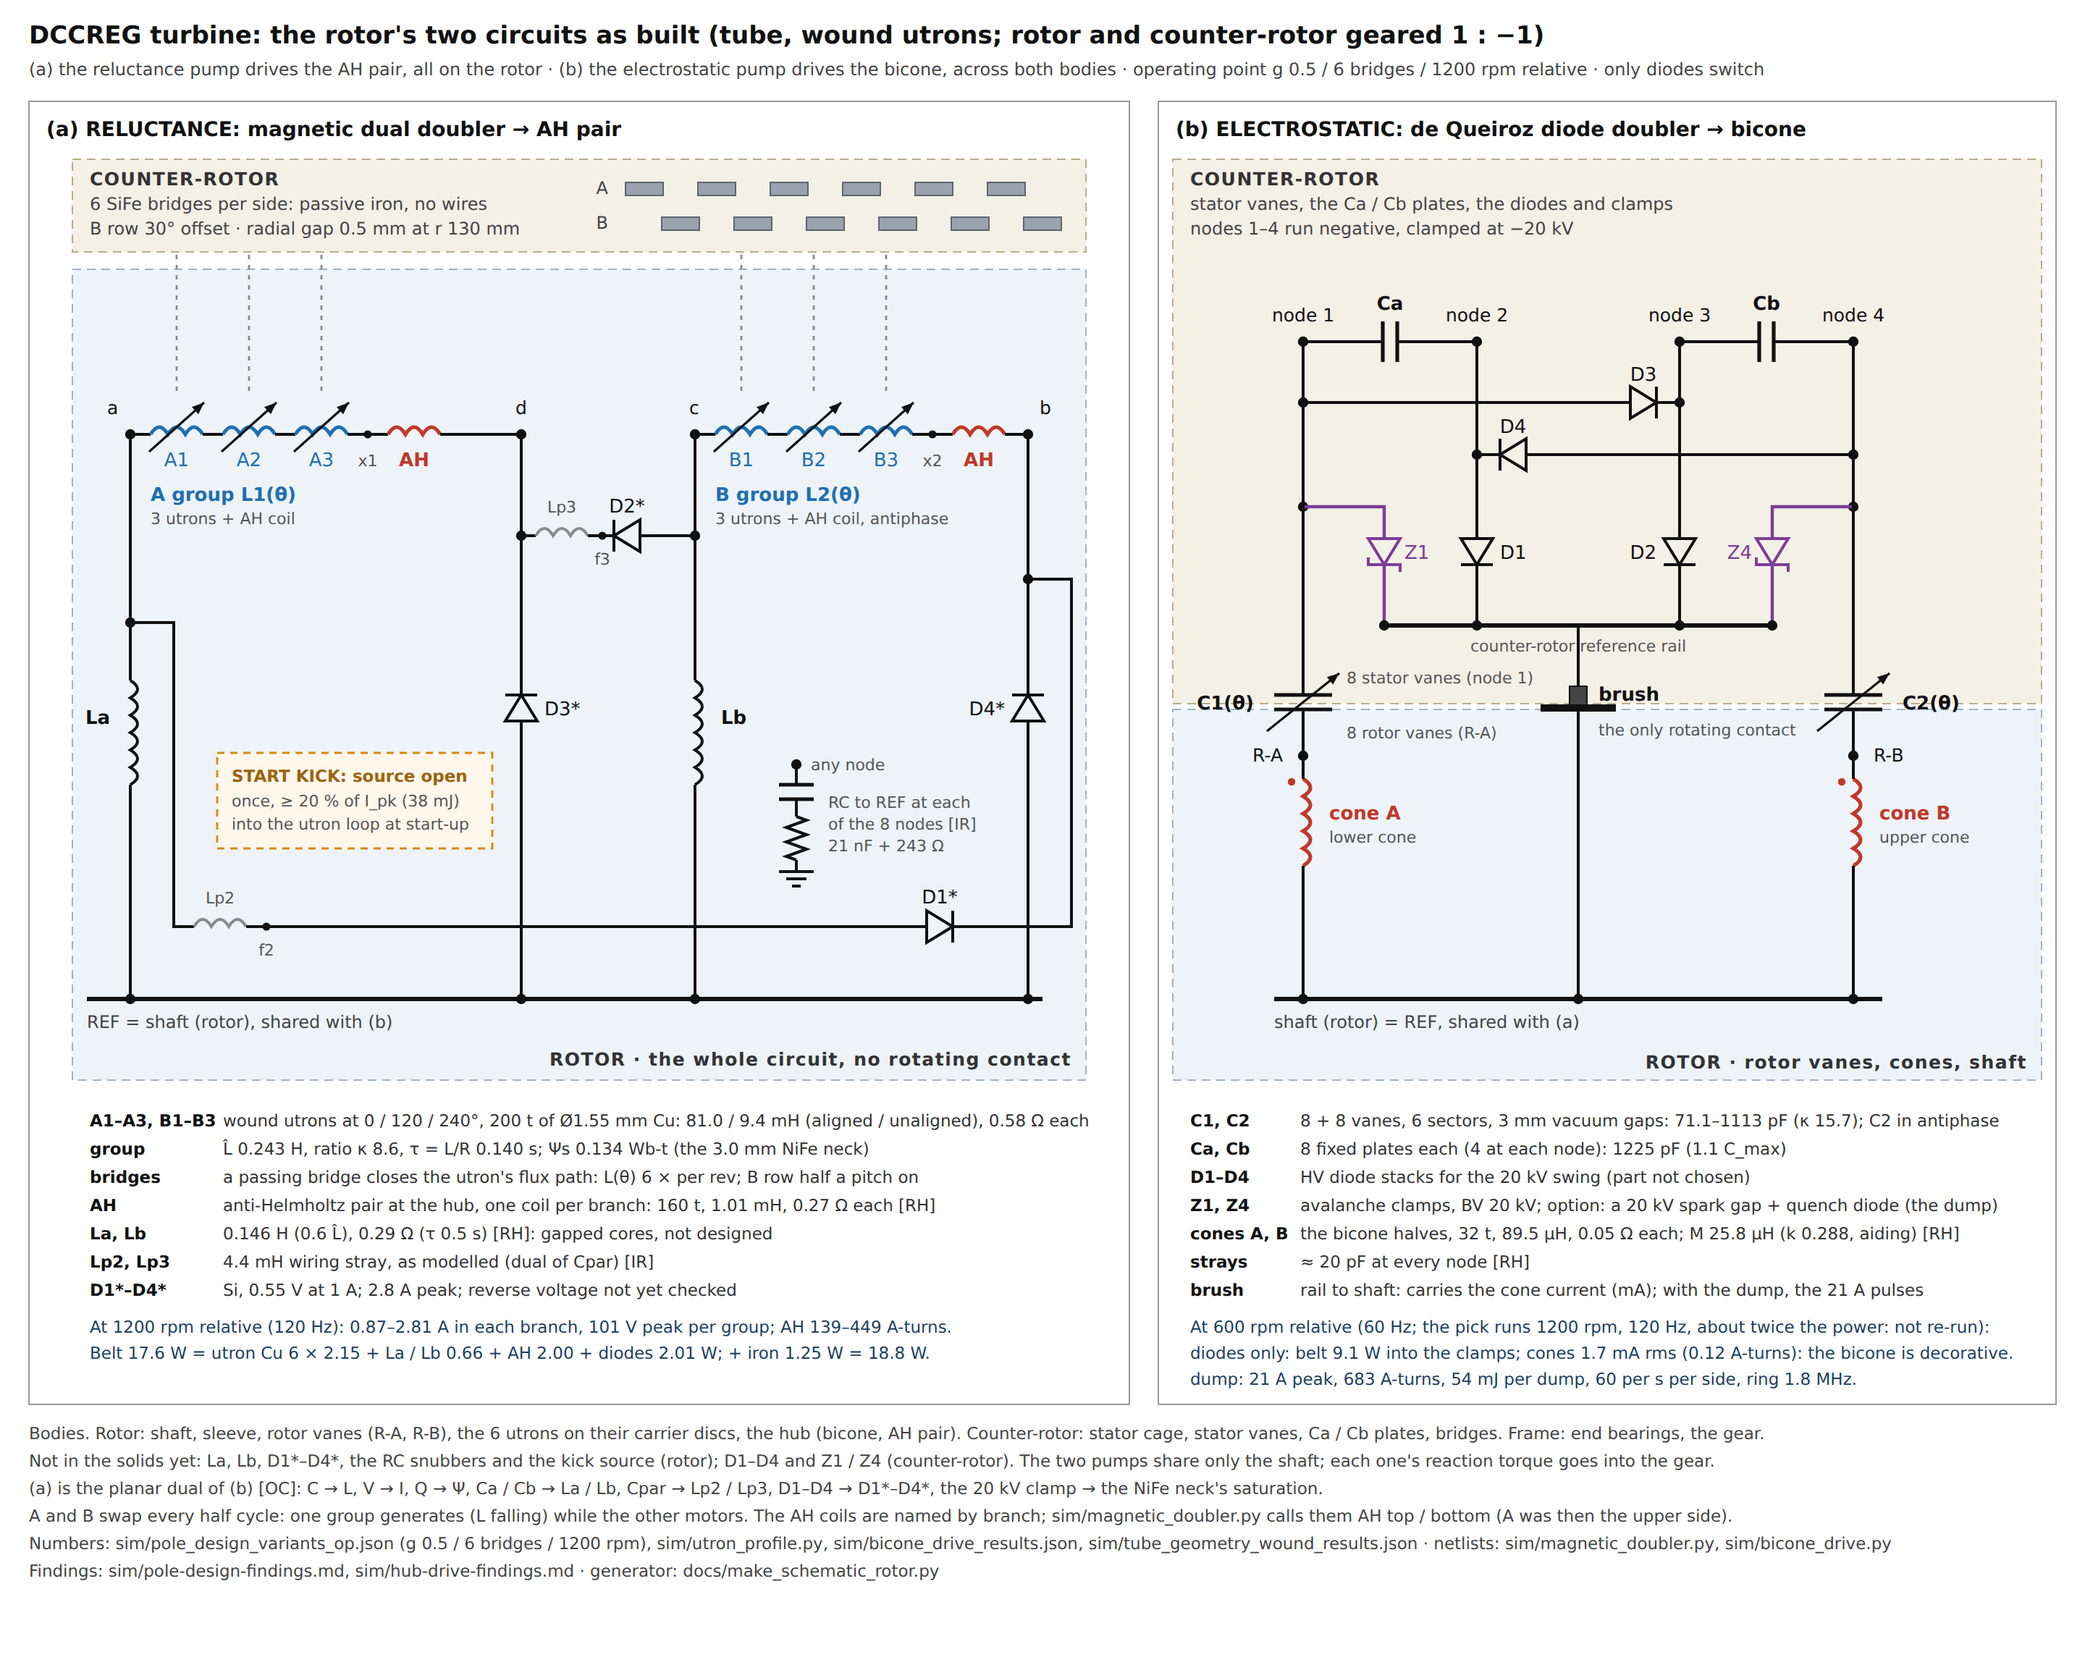
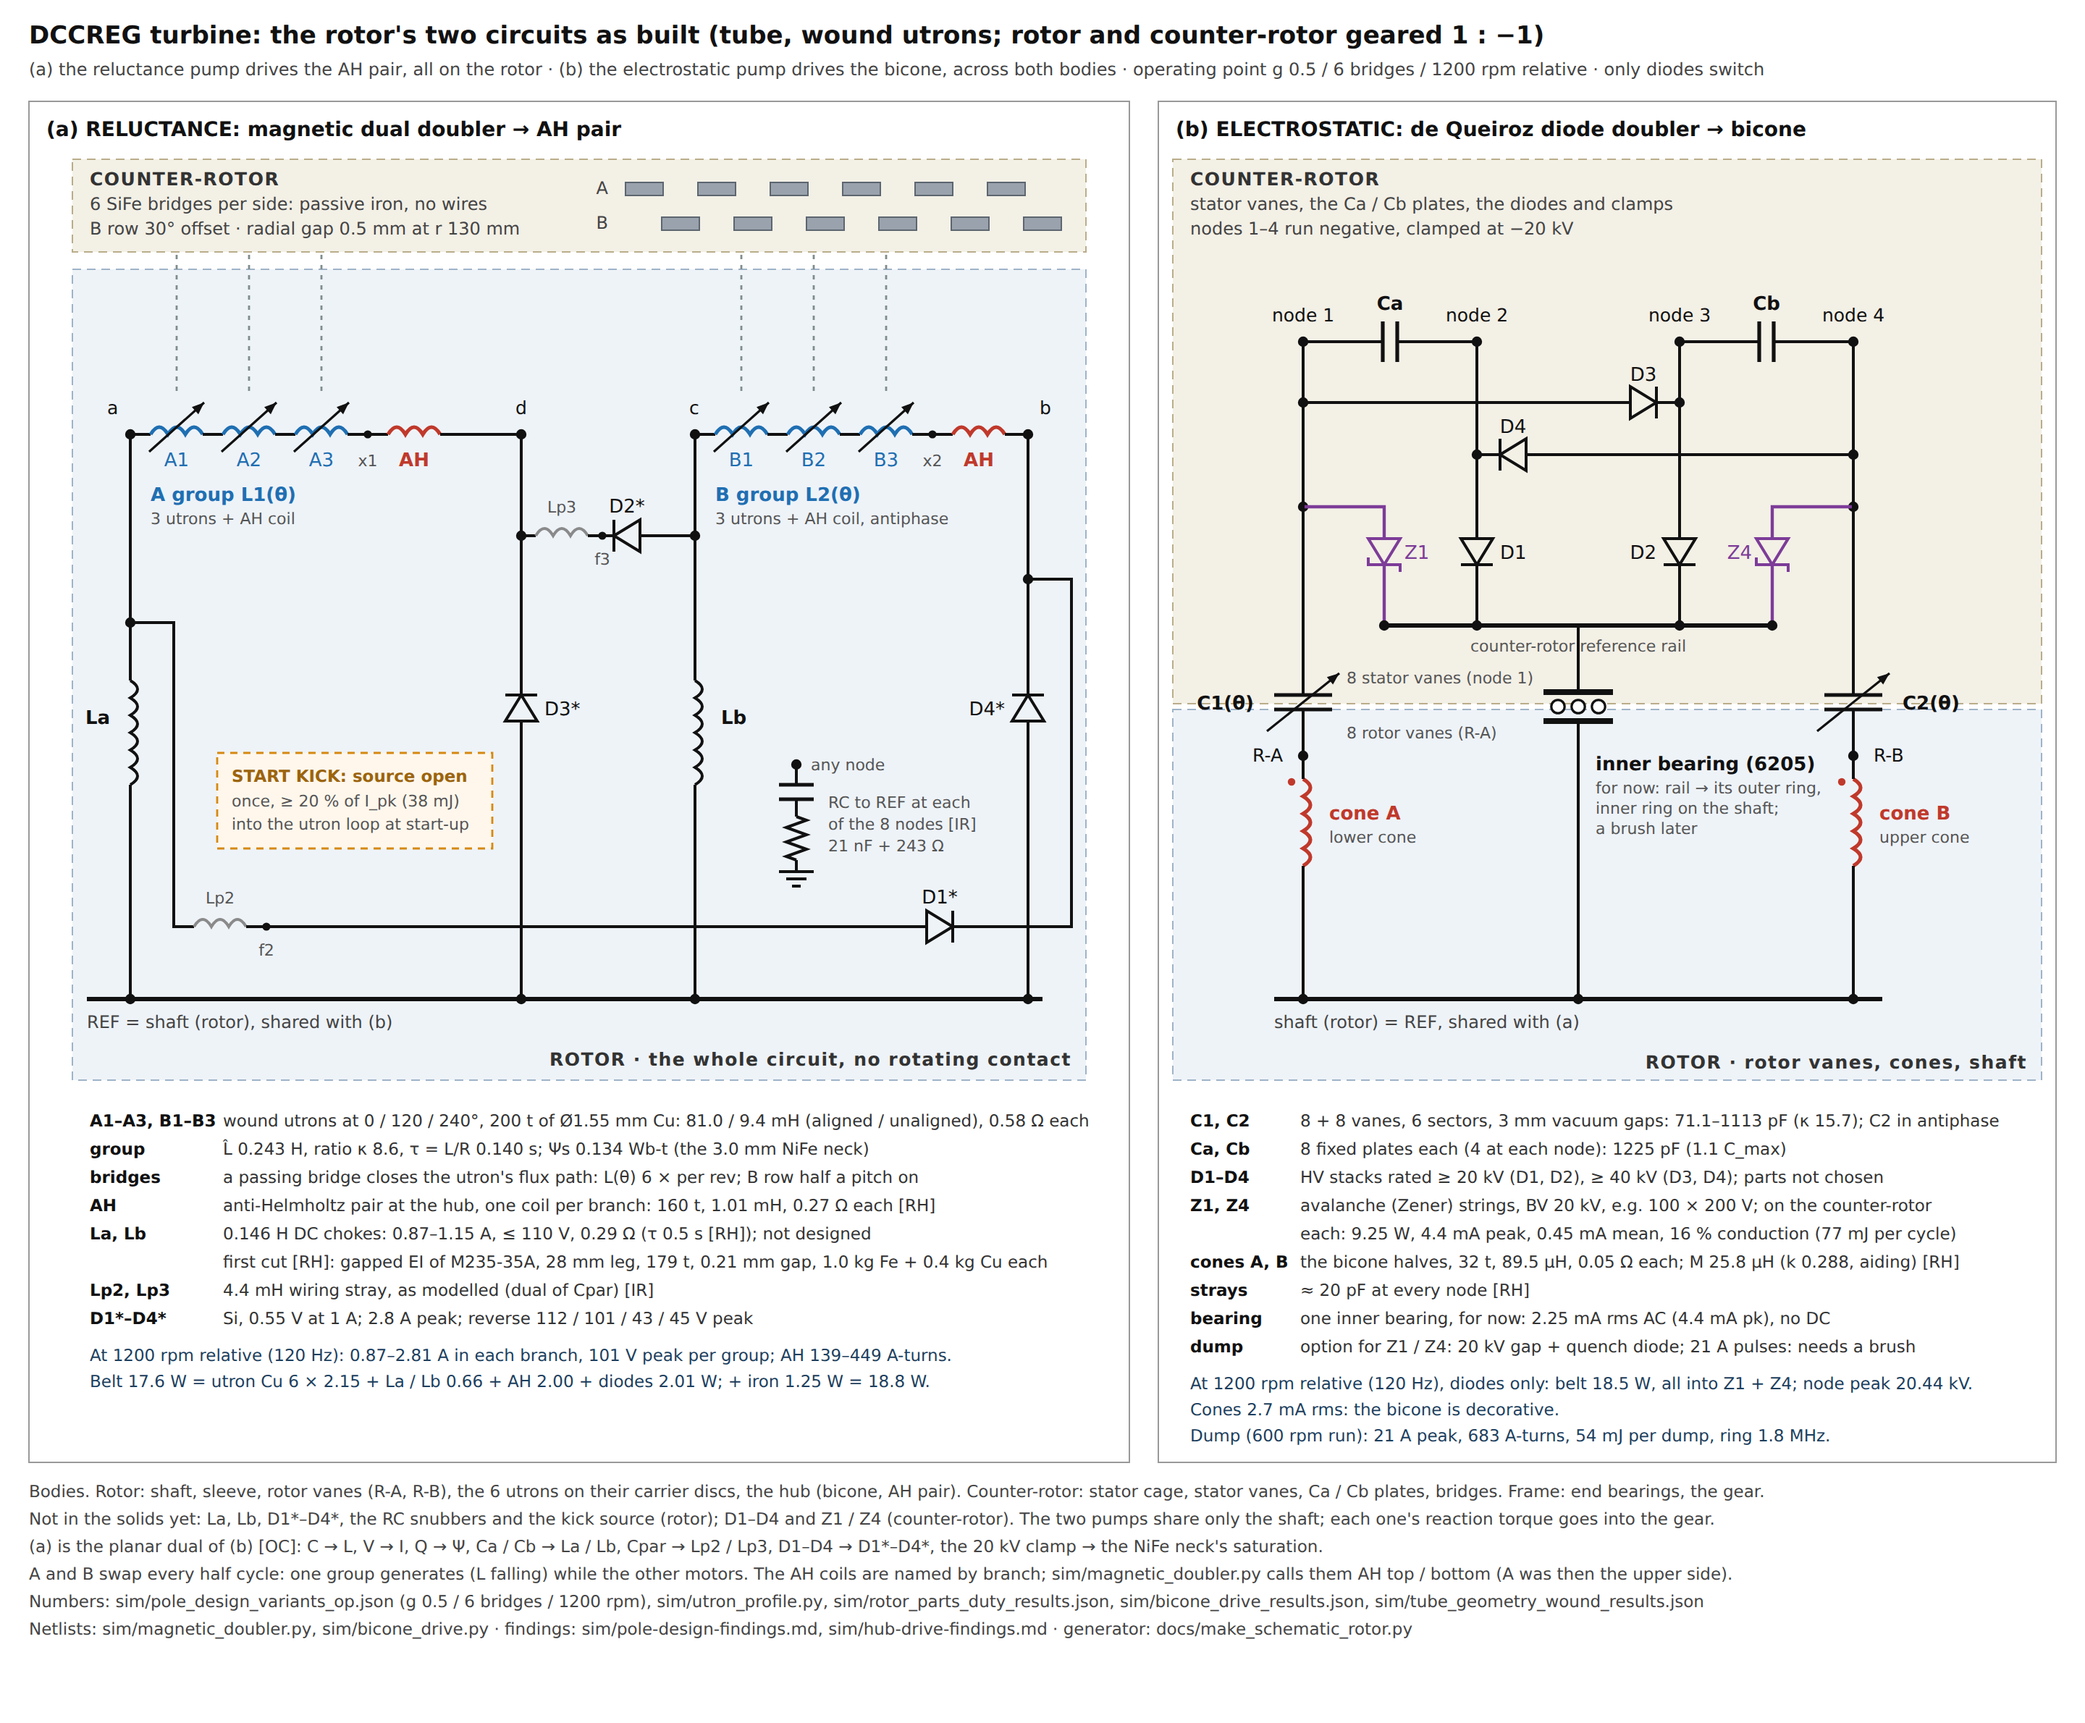
docs(schematic): reference link through an inner bearing for now; part duties on the sheet
- the counter-rotor rail reaches the shaft through one inner bearing's
  outer ring (the G10 spiders insulate the others); the dump option's
  21 A pulses need a brush
- La / Lb, D1*-D4*, Z1 / Z4 and the link current from
  sim/rotor_parts_duty_results.json; the electrostatic numbers at 1200 rpm

Claude-Session: https://claude.ai/code/session_019kWq1ZtzZgffamNAmjzqBU

diff --git a/docs/make_schematic_rotor.py b/docs/make_schematic_rotor.py
@@ -5,8 +5,9 @@
     counter-rotor's passive bridges make L(theta); no wire crosses between the bodies.
 (b) ELECTROSTATIC: the de Queiroz diode doubler (sim/bicone_drive.py netlist) -- C1 / C2 between the counter-rotor's
     stator vanes and the rotor vanes, Ca / Cb, D1-D4, the 20 kV clamps, the bicone cones from the rotor vanes to the
-    shaft; one brush from the counter-rotor's reference rail to the shaft.
+    shaft; the counter-rotor's reference rail joined to the shaft through one inner bearing for now (a brush later).
 Values: sim/pole_design_variants_op.json (the pick), sim/utron_profile.py, sim/bicone_drive.py and its results,
+sim/rotor_parts_duty_results.json (La / Lb, D1*-D4*, the clamps and the bearing current at the pick),
 sim/tube_geometry_wound_results.json.
 Usage: python3 docs/make_schematic_rotor.py   (the PNG needs playwright + chromium)
 """
@@ -127,7 +128,8 @@ def numbers():
     rsn = MDm.RSNUB * (Lg / MDm.L_MAX) * (F / 60.0)
     bd = json.load(open(os.path.join(ROOT, "sim", "bicone_drive_results.json")))
     tube = json.load(open(os.path.join(ROOT, "sim", "tube_geometry_wound_results.json")))
-    return dict(op=op, b=b, sp=sp, Lg=Lg, ah=ah, F=F, csn=csn, rsn=rsn, la=LA_RATIO * Lg, lp=MDm.R_PAR * Lg,
+    duty = json.load(open(os.path.join(ROOT, "sim", "rotor_parts_duty_results.json")))
+    return dict(op=op, b=b, sp=sp, Lg=Lg, ah=ah, F=F, csn=csn, rsn=rsn, la=LA_RATIO * Lg, lp=MDm.R_PAR * Lg, duty=duty,
                 bd_d=[r for r in bd["rows"] if r["mode"] == "diodes"][0],
                 bd_g=[r for r in bd["rows"] if r["mode"] == "dump" and "steps" not in r and "reltol" not in r][0],
                 bd_F=bd["F"], tube=tube)
@@ -214,6 +216,7 @@ def panel_a(ox, N):
 
 def panel_a_table(ox, y, N):
     b, sp, ah = N["b"], N["sp"], N["ah"]
+    la, ch = N["duty"]["la_lb"]["La"], N["duty"]["la_core"][0]
     rows = [
         ("A1–A3, B1–B3", f"wound utrons at 0 / 120 / 240°, {sp['N_u']} t of Ø{sp['wire_d_mm']:.2f} mm Cu: "
                          f"{1e3 * sp['L_al_coil_H']:.1f} / {1e3 * sp['L_un_coil_H']:.1f} mH (aligned / unaligned), "
@@ -223,9 +226,13 @@ def panel_a_table(ox, y, N):
         ("bridges", f"a passing bridge closes the utron's flux path: L(θ) {sp['n_br']} × per rev; B row half a pitch on"),
         ("AH", f"anti-Helmholtz pair at the hub, one coil per branch: {ah['N']} t, {ah['L'] * 1e3:.2f} mH, "
                f"{ah['R']:.2f} Ω each [RH]"),
-        ("La, Lb", f"{N['la']:.3f} H ({LA_RATIO:g} L̂), {N['la'] / TAU_FIXED:.2f} Ω (τ {TAU_FIXED:g} s) [RH]: gapped cores, not designed"),
+        ("La, Lb", f"{N['la']:.3f} H DC chokes: {la['I_min_A']:.2f}–{la['I_max_A']:.2f} A, ≤ {la['V_pk_V']:.0f} V, "
+                   f"{N['la'] / TAU_FIXED:.2f} Ω (τ {TAU_FIXED:g} s [RH]); not designed"),
+        ("", f"first cut [RH]: gapped EI of M235-35A, {ch['a_mm']:.0f} mm leg, {ch['turns']} t, {ch['gap_mm']:.2f} mm gap, "
+             f"{ch['m_core_kg']:.1f} kg Fe + {ch['m_cu_kg']:.1f} kg Cu each"),
         ("Lp2, Lp3", f"{N['lp'] * 1e3:.1f} mH wiring stray, as modelled (dual of Cpar) [IR]"),
-        ("D1*–D4*", f"Si, 0.55 V at 1 A; {b['I_pk']:.1f} A peak; reverse voltage not yet checked"),
+        ("D1*–D4*", f"Si, 0.55 V at 1 A; {b['I_pk']:.1f} A peak; reverse "
+                    + " / ".join(f"{v:.0f}" for v in N['duty']['la_lb']['diode_VR_pk_V'].values()) + " V peak"),
     ]
     y = table(ox + 42, y, rows)
     I_min = b["AT_min"] / ah["N"]
@@ -283,14 +290,17 @@ def panel_b(ox, N):
         o.append(f'<circle cx="{x - 8:.1f}" cy="{y_bd + 52:.1f}" r="2.6" fill="#c0392b"/>')    # dot convention: aiding
         tx(x - 34 if side < 0 else x + 34, y_bd + 2, nm, "t", "end" if side < 0 else "start", 'font-weight="bold"')
     tx(x1 + 30, y_bd - 16, "8 stator vanes (node 1)", "ms"); tx(x1 + 30, y_bd + 22, "8 rotor vanes (R-A)", "ms")
-    # the brush: the one rotating contact
+    # the one rotating contact: for now an inner bearing (outer ring on the counter-rotor, inner ring on the shaft)
     xm = (x2 + x3) / 2
-    ln(xm, y_cr, xm, y_bd - 14)
-    o.append(f'<rect x="{xm - 6:.1f}" y="{y_bd - 14:.1f}" width="12" height="13" class="brush"/>')
-    ln(xm - 26, y_bd + 1, xm + 26, y_bd + 1, "ring")
-    ln(xm, y_bd + 1, xm, y_sh)
-    tx(xm + 14, y_bd - 4, "brush", "t", "start", 'font-weight="bold"')
-    tx(xm + 14, y_bd + 20, "the only rotating contact", "ms")
+    ln(xm, y_cr, xm, y_bd - 10)
+    ln(xm - 24, y_bd - 10, xm + 24, y_bd - 10, "ring"); ln(xm - 24, y_bd + 10, xm + 24, y_bd + 10, "ring")
+    for dx in (-14, 0, 14):
+        o.append(f'<circle cx="{xm + dx:.1f}" cy="{y_bd:.1f}" r="4.6" class="ball"/>')
+    ln(xm, y_bd + 10, xm, y_sh)
+    tx(xm + 12, y_bd + 44, "inner bearing (6205)", "t", "start", 'font-weight="bold"')
+    tx(xm + 12, y_bd + 60, "for now: rail → its outer ring,", "ms")
+    tx(xm + 12, y_bd + 74, "inner ring on the shaft;", "ms")
+    tx(xm + 12, y_bd + 88, "a brush later", "ms")
     # shaft
     ln(x1 - 20, y_sh, x4 + 20, y_sh, "rail")
     for x in (x1, xm, x4):
@@ -301,30 +311,34 @@ def panel_b(ox, N):
 def panel_b_table(ox, y, N):
     t = N["tube"]
     d, g = N["bd_d"], N["bd_g"]
+    es = [q for q in N["duty"]["clamps"] if q["F_Hz"] == 120.0][0]
+    zc, zs, lk = es["Z1"], N["duty"]["clamp_string"], es["link"]
     rows = [
         ("C1, C2", f"8 + 8 vanes, 6 sectors, 3 mm vacuum gaps: {BDm.CMIN * 1e12:.1f}–{t['C_max_pF']:.0f} pF "
                    f"(κ {t['kappa']:.1f}); C2 in antiphase"),
         ("Ca, Cb", f"8 fixed plates each (4 at each node): {BDm.CA * 1e12:.0f} pF ({BDm.CA / BDm.CMAX:.1f} C_max)"),
-        ("D1–D4", "HV diode stacks for the 20 kV swing (part not chosen)"),
-        ("Z1, Z4", "avalanche clamps, BV 20 kV; option: a 20 kV spark gap + quench diode (the dump)"),
+        ("D1–D4", "HV stacks rated ≥ 20 kV (D1, D2), ≥ 40 kV (D3, D4); parts not chosen"),
+        ("Z1, Z4", f"avalanche (Zener) strings, BV 20 kV, e.g. {zs['N']} × {zs['V_Z']:.0f} V; on the counter-rotor"),
+        ("", f"each: {zc['P_W']:.2f} W, {zc['I_pk_mA']:.1f} mA peak, {zc['I_avg_mA']:.2f} mA mean, "
+             f"{100 * zc['conduction']:.0f} % conduction ({zc['E_per_cycle_mJ']:.0f} mJ per cycle)"),
         ("cones A, B", f"the bicone halves, {BDm.N_CONE} t, {BDm.L_CONE * 1e6:.1f} µH, {BDm.R_CONE:.2f} Ω each; "
                        f"M {BDm.M_CONE * 1e6:.1f} µH (k {BDm.M_CONE / BDm.L_CONE:.3f}, aiding) [RH]"),
         ("strays", f"≈ {BDm.CPAR * 1e12:.0f} pF at every node [RH]"),
-        ("brush", "rail to shaft: carries the cone current (mA); with the dump, the 21 A pulses"),
+        ("bearing", f"one inner bearing, for now: {lk['I_rms_mA']:.2f} mA rms AC ({lk['I_pk_mA']:.1f} mA pk), no DC"),
+        ("dump", f"option for Z1 / Z4: 20 kV gap + quench diode; {g['I_cone_pk_A']:.0f} A pulses: needs a brush"),
     ]
     y = table(ox + 42, y, rows, w_key=76)
-    tx(ox + 42, y + 6, f"At {60 * N['bd_F'] / 6:.0f} rpm relative ({N['bd_F']:.0f} Hz; the pick runs 1200 rpm, 120 Hz, "
-                       "about twice the power: not re-run):", "op")
-    tx(ox + 42, y + 24, f"diodes only: belt {d['P_belt_W']:.1f} W into the clamps; cones {d['I_cone_rms_mA']:.1f} mA rms "
-                        f"({d['AT_pk']:.2f} A-turns): the bicone is decorative.", "op")
-    tx(ox + 42, y + 42, f"dump: {g['I_cone_pk_A']:.0f} A peak, {g['AT_pk']:.0f} A-turns, {g['E_per_dump_mJ']:.0f} mJ per dump, "
-                        f"{g['dumps_per_s_A']:.0f} per s per side, ring {g['f_ring_analytic_MHz']:.1f} MHz.", "op")
+    tx(ox + 42, y + 6, f"At {es['rpm_rel']:.0f} rpm relative ({es['F_Hz']:.0f} Hz), diodes only: belt {es['P_belt_W']:.1f} W, "
+                       f"all into Z1 + Z4; node peak {zc['V_node_pk_kV']:.2f} kV.", "op")
+    tx(ox + 42, y + 24, f"Cones {es['cone_rms_mA']:.1f} mA rms: the bicone is decorative.", "op")
+    tx(ox + 42, y + 42, f"Dump ({60 * N['bd_F'] / 6:.0f} rpm run): {g['I_cone_pk_A']:.0f} A peak, {g['AT_pk']:.0f} A-turns, "
+                        f"{g['E_per_dump_mJ']:.0f} mJ per dump, ring {g['f_ring_analytic_MHz']:.1f} MHz.", "op")
 
 
 # ------------------------------------------------------------------------------------------------ sheet
 def main():
     N = numbers()
-    W, H = 1440, 1150
+    W, H = 1440, 1190
     o.append(f'<svg xmlns="http://www.w3.org/2000/svg" viewBox="0 0 {W} {H}" width="{W}" height="{H}" '
              'font-family="DejaVu Sans, Arial, sans-serif" font-size="13">')
     o.append("<title>Rotor circuits</title>")
@@ -335,7 +349,7 @@ def main():
     .zl{stroke:#7d3c98;stroke-width:2;fill:none} .va{stroke:#111;stroke-width:1.6}
     .pl{stroke:#111;stroke-width:2.6} .rail{stroke:#111;stroke-width:3} .mag{stroke:#7f8c8d;stroke-width:1.4;stroke-dasharray:3 4}
     .br{fill:#9aa3ad;stroke:#5d6670;stroke-width:1} .brush{fill:#444;stroke:#111;stroke-width:1}
-    .ring{stroke:#111;stroke-width:5} .dot{fill:#111}
+    .ring{stroke:#111;stroke-width:4} .ball{fill:#fff;stroke:#111;stroke-width:1.6} .dot{fill:#111}
     .zone_cr{fill:#f3f0e6;stroke:#b9ad8a;stroke-width:1;stroke-dasharray:6 4} .zone_r{fill:#eef3f8;stroke:#9fb3c8;stroke-width:1;stroke-dasharray:6 4}
     .kick{fill:#fff7ec;stroke:#d68910;stroke-width:1.4;stroke-dasharray:5 4} .frame{fill:none;stroke:#999;stroke-width:1}
     .t{fill:#111} .tu{fill:#1f6fb2} .ta{fill:#c0392b} .tl{fill:#7d3c98} .nd{fill:#111;font-size:12.5px}
@@ -350,7 +364,7 @@ def main():
                f"across both bodies · operating point {PICK} relative · only diodes switch", "m")
     for ox, w, title in ((20, 760, "(a) RELUCTANCE: magnetic dual doubler → AH pair"),
                          (800, 620, "(b) ELECTROSTATIC: de Queiroz diode doubler → bicone")):
-        box(ox, 70, w, 900, "frame")
+        box(ox, 70, w, 940, "frame")
         tx(ox + 12, 94, title, "h2")
     panel_a(20, N)
     panel_b(780, N)
@@ -365,11 +379,12 @@ def main():
         "the 20 kV clamp → the NiFe neck's saturation.",
         "A and B swap every half cycle: one group generates (L falling) while the other motors. The AH coils are named by branch; "
         "sim/magnetic_doubler.py calls them AH top / bottom (A was then the upper side).",
-        f"Numbers: sim/pole_design_variants_op.json ({PICK}), sim/utron_profile.py, sim/bicone_drive_results.json, "
-        "sim/tube_geometry_wound_results.json · netlists: sim/magnetic_doubler.py, sim/bicone_drive.py",
-        "Findings: sim/pole-design-findings.md, sim/hub-drive-findings.md · generator: docs/make_schematic_rotor.py",
+        f"Numbers: sim/pole_design_variants_op.json ({PICK}), sim/utron_profile.py, sim/rotor_parts_duty_results.json, "
+        "sim/bicone_drive_results.json, sim/tube_geometry_wound_results.json",
+        "Netlists: sim/magnetic_doubler.py, sim/bicone_drive.py · findings: sim/pole-design-findings.md, sim/hub-drive-findings.md "
+        "· generator: docs/make_schematic_rotor.py",
     ]
-    y = 994
+    y = 1034
     for s in notes:
         tx(20, y, s, "n"); y += 19
     o.append("</svg>")
